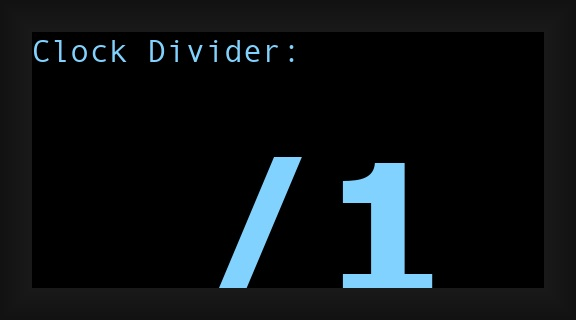
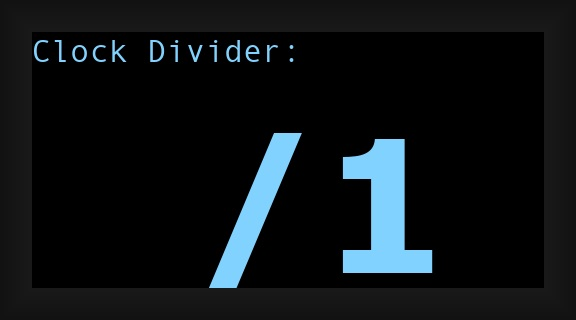
fix display renderings

Changed region(s): [[0.3438, 0.4062, 0.5312, 0.9062], [0.5938, 0.4062, 0.7188, 0.6562], [0.5938, 0.7812, 0.75, 0.9062]]

diff --git a/gen_display_images.py b/gen_display_images.py
@@ -135,7 +135,7 @@ def screen_qrs_offset(val=2):
     img, draw = make_canvas()
     put(draw, 0,  0, "QRS Offset(PPQN):", f_small)
     x = 30 if val < 100 else 15
-    put(draw, x, 20, str(val), f_bpm)
+    put(draw, x, 14, str(val), f_bpm)
     save(img, "screen_qrs_offset")
 
 
@@ -143,7 +143,7 @@ def screen_clock_divider(val=1):
     """Clock Divider editor"""
     img, draw = make_canvas()
     put(draw,  0,  0, "Clock Divider:", f_small)
-    put(draw, 40, 20, f"/{val}",        f_bpm)
+    put(draw, 40, 14, f"/{val}",        f_bpm)
     save(img, "screen_clock_divider")
 
 
@@ -152,7 +152,7 @@ def screen_led_brightness(val=50):
     img, draw = make_canvas()
     put(draw,  0,  0, "LED Brightness:", f_small)
     x = 30 if val < 100 else 15
-    put(draw, x, 20, str(val), f_bpm)
+    put(draw, x, 14, str(val), f_bpm)
     save(img, "screen_led_brightness")
 
 
